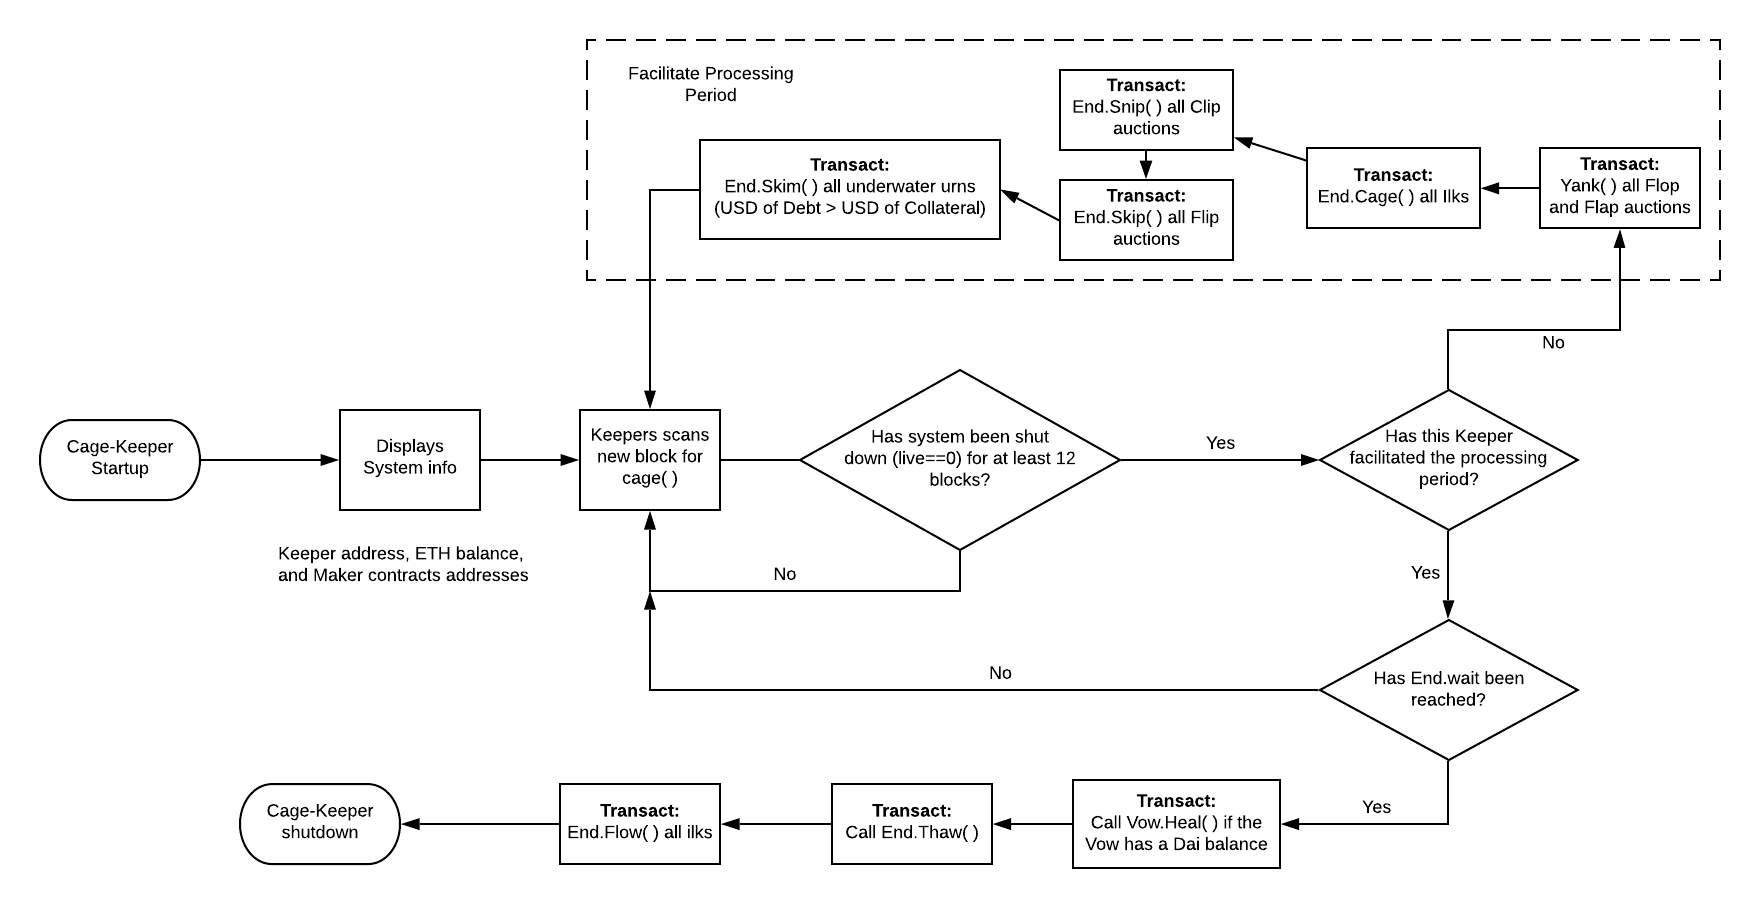
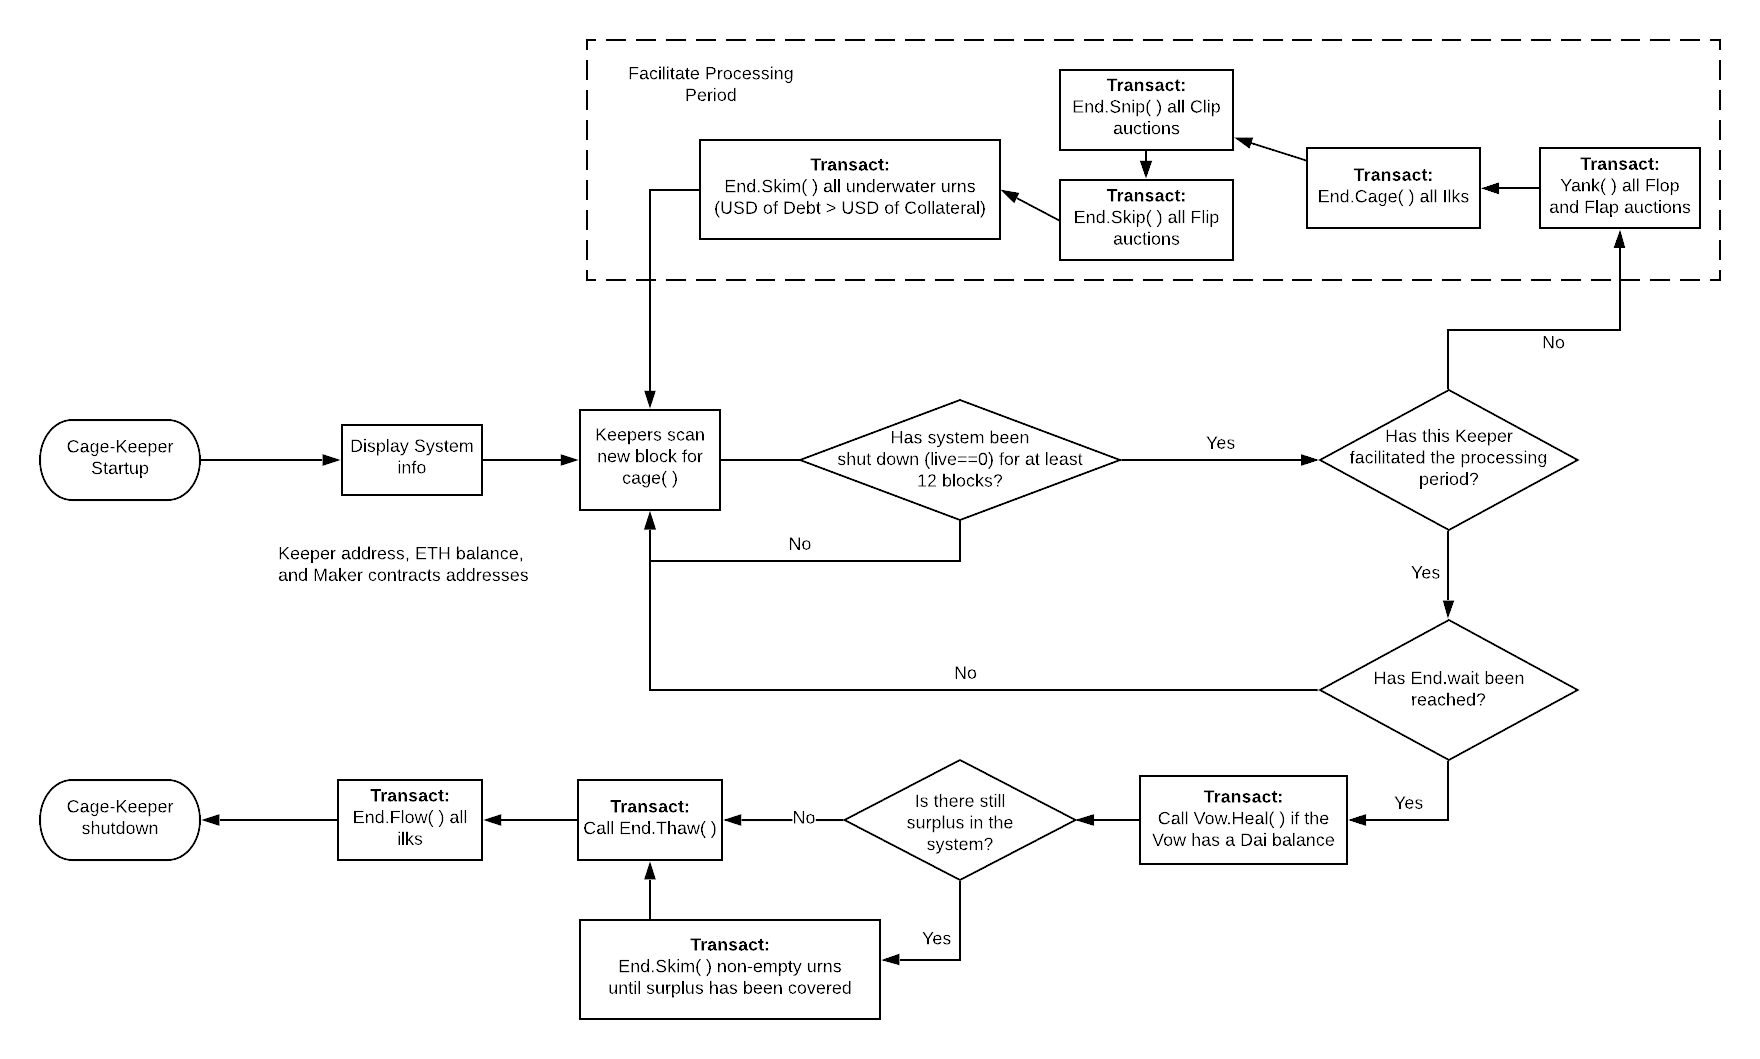
updated documentation

diff --git a/src/cage_keeper.py b/src/cage_keeper.py
@@ -292,7 +292,7 @@ class CageKeeper:
         self.reconcile_debt()
         if self.dss.vat.dai(self.dss.vow.address) > Rad(0):
             ilks = list(map(lambda l: l.ilk, self.get_collaterals()))
-            self.skim_urns(ilks, undercollateralized_only=True)
+            self.skim_urns(ilks, undercollateralized_only=False)
 
         # Call thaw and Fix outstanding supply of Dai
         assert self.dss.end.thaw().transact(gas_price=self.gas_price)
